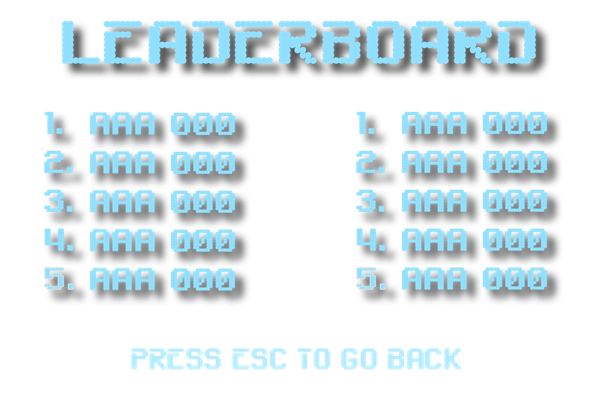
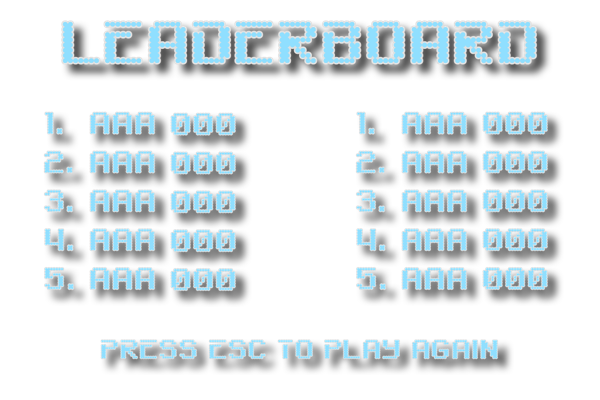
added transition screen

diff --git a/src/GameWorld.java b/src/GameWorld.java
@@ -11,6 +11,7 @@ import greenfoot.GreenfootSound;
 import greenfoot.World;
 import greenfoot.GreenfootImage;
 import greenfoot.Color;
+import java.lang.String;
 
 
 // 
@@ -119,7 +120,7 @@ public class GameWorld extends World implements ISubject, IObserver
         playerAlias = "AAA";
         // over - Sid
         
-        final Class[] x = {LeaderboardScreen.class, Button.class, Explosion.class, Player.class, Laser.class, Ufo.class, StartScreen.class, Moon.class};
+        final Class[] x = {TransitionScreen.class, LeaderboardScreen.class, Button.class, Explosion.class, Player.class, Laser.class, Ufo.class, StartScreen.class, Moon.class};
         this.setPaintOrder(x);
     }
     
@@ -185,11 +186,19 @@ public class GameWorld extends World implements ISubject, IObserver
                 break;
             }
             case 7:{
-                this.addObject((Actor)new TransitionScreen(), 300, 200);
+                final List l = this.getObjects((Class)Ufo.class);
+                if (!l.isEmpty()) {
+                    this.removeObjects((Collection)l);
+                }
+                this.addObject((Actor)new TransitionScreen(playerAlias, playerScore), 300, 200);
                 // playerAlias = Greenfoot.ask("Please input your player alias");
                 if (Greenfoot.isKeyDown("enter")) {
                     // this.timer.cancel();
                     // this.resetGame();
+                    final List l1 = this.getObjects((Class)TransitionScreen.class);
+                    if (!l1.isEmpty()) {
+                        this.removeObjects((Collection)l1);
+                    }
                     this.gameState = 8;
                     break;
                 }
@@ -219,12 +228,12 @@ public class GameWorld extends World implements ISubject, IObserver
         this.debugObserver.clearData();
 
         if(playerLives == 0){
-            this.addObject((Actor)new FinishScreen(), 300, 200);
-            this.gameState = 6;
-        }
-        else{
             this.addObject((Actor)new GameOverScreen(), 300, 200);
             this.gameState = 2;
+        }
+        else{
+            this.addObject((Actor)new FinishScreen(), 300, 200);
+            this.gameState = 6;
         }
 
         if (this.gameMusic.isPlaying()) {

diff --git a/src/TransitionScreen.java b/src/TransitionScreen.java
@@ -1,4 +1,5 @@
 import greenfoot.*;  // (World, Actor, GreenfootImage, Greenfoot and MouseInfo)
+import java.lang.*;
 
 /**
  * Write a description of class TransitionScreen here.
@@ -8,10 +9,10 @@ import greenfoot.*;  // (World, Actor, GreenfootImage, Greenfoot and MouseInfo)
  */
 public class TransitionScreen extends Actor
 {
-    String playerAlias;
-    public TransitionScreen()
+    GreenfootImage alias;
+    public TransitionScreen(String playeralias, int playerscore)
     {
-        
+        this.setImage(new GreenfootImage("Alias: " + playeralias + "\nScore: " + String.valueOf(playerscore), 36, Color.CYAN, null, Color.WHITE));
     }
     /**
      * Act - do whatever the TransitionScreen wants to do. This method is called whenever
